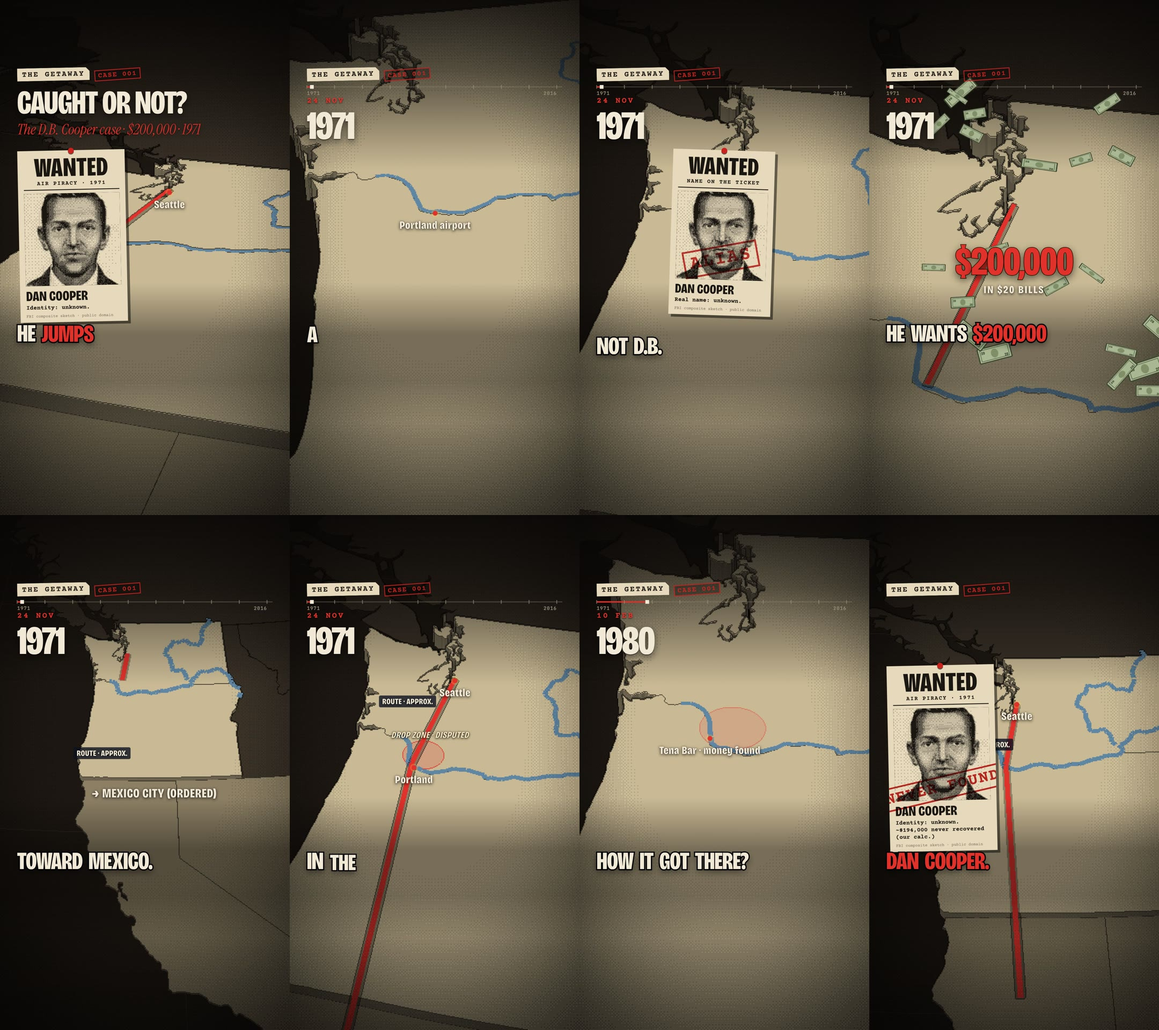
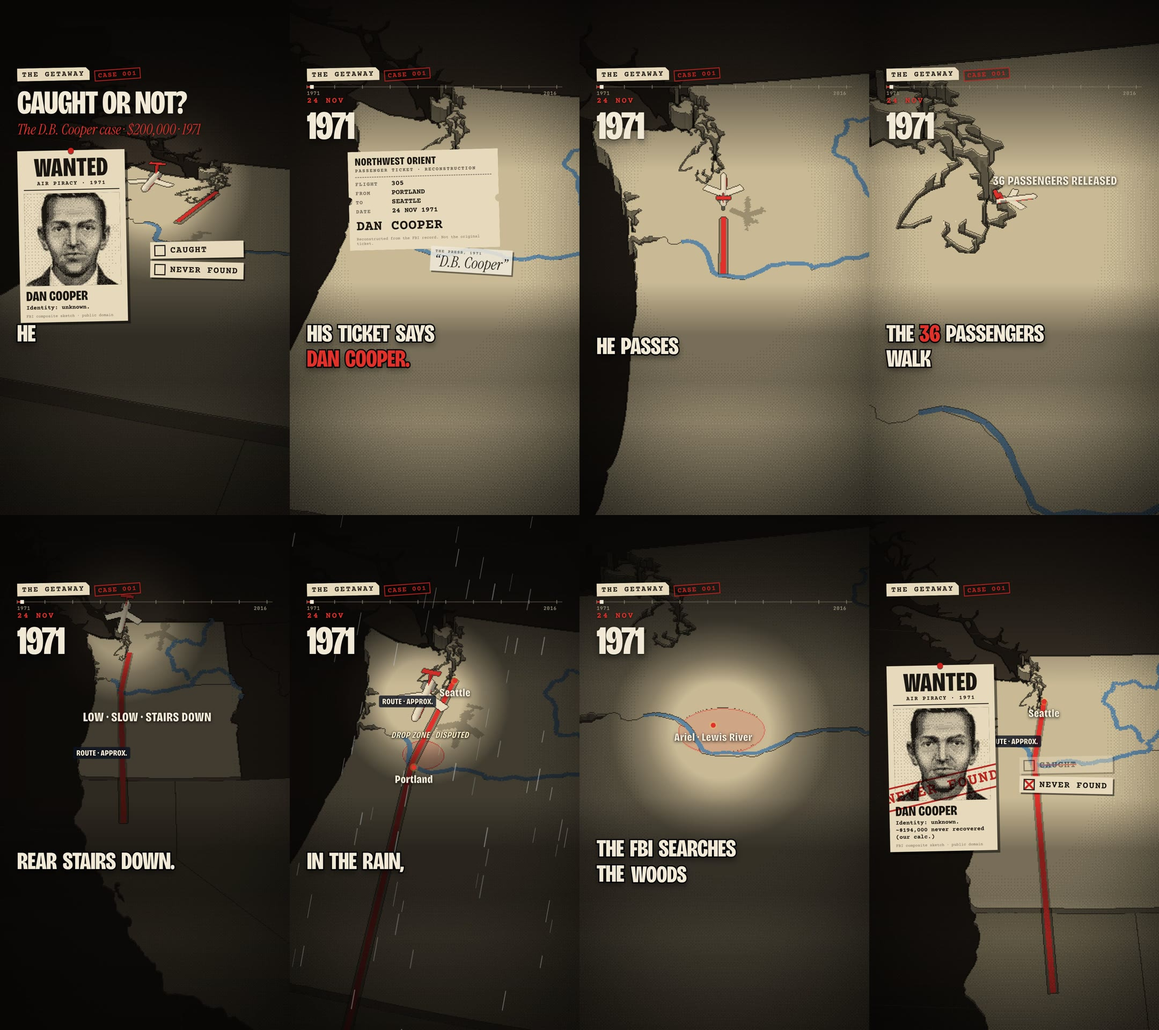
getaway-001 render 4 (creative pass): jet + airstair + vanishing jumper, night/torch/rain, typed ticket, verdict boxes; docs
Claude-Session: https://claude.ai/code/session_01XTztXofJfEXunW3vUDzBqv

diff --git a/docs/REVIEW_getaway-001-dbcooper.md b/docs/REVIEW_getaway-001-dbcooper.md
@@ -236,3 +236,17 @@ Stills at 0 / 6 / 20 / 40 s, before (commit 4908840) and after:
 - [ ] Listen once: "D.B.", "three-oh-five", "Reno", "fifty-eight hundred".
 - [ ] Tick the FBI lines of SOURCES.md against fbi.gov (not reachable from the cloud session): rows 8, 9, 11, 12, 14, 17, 24; row 13 (FBI Vault OCR).
 - [ ] Post on 24 Nov with "55 years ago today"; otherwise edit the first caption line.
+
+## Render 4 — creative pass (owner: "sors du cadre, sois plus créatif")
+Voice and facts unchanged; only the world and the cues. New kit pieces (reusable by every map episode):
+- `vehicle`: a low-poly tri-jet with a T-tail flies the route above the table, banks in turns, casts its shadow on the
+  map, opens its **rear airstair** ("Rear stairs down."), lands in Reno with the stairs still down. On "jumps" a figure
+  under a canopy drops and **fades out in the air** with a "?" — the jump is shown without implying a landing point.
+- `night`: from "south," the map goes dark except a torch pool that follows the jet; rain streaks on "in the rain,";
+  a static searchlight on the search area in the hunt beat; dark again on the last line (loop).
+- `ticket`: the ticket beat types a reconstruction (flight 305, Portland → Seattle, 24 Nov 1971, DAN COOPER — labelled
+  "Reconstructed from the FBI record. Not the original ticket.") and the press cutting "D.B. Cooper" is struck out on "D.B.".
+- `verdict`: CAUGHT / NEVER FOUND tick boxes, empty on frame 0, the red cross lands on NEVER FOUND on "never".
+  First and last frame now differ only by that cross and the stamp: the loop *asks* then *answers*.
+Metrics: −14.1 LUFS · loop SSIM 0.907 · 46 visual cues (was 36) · no gap over 4.5 s (the 6 s gap at the verdict is gone).
+Non-regression: `ussr-1991-v2` 4/4 stills byte-identical after the kit changes; `npm test` green.

diff --git a/docs/getaway/00_CHANNEL_BIBLE.md b/docs/getaway/00_CHANNEL_BIBLE.md
@@ -36,7 +36,8 @@ An episode belongs to the channel through `"channel": "getaway"` in `episode.jso
 | Paper | `#E6D9BC` (wanted posters, the series tab), ink `#1A1612`, stamp ink `#C8231E` |
 | Type | Display (Bricolage condensed) for titles and captions · Whisper (Instrument Serif italic) for the one quiet line · **Courier Prime** (OFL) replaces JetBrains Mono for every data/annotation line |
 | Series bar | A: beige typed tab "THE GETAWAY" + red stamped "CASE 001". (B "evidence label" stays available: render prop `brand: "B"`.) |
-| Signature objects | wanted poster (`wanted` cue: image printed in paper ink, typed lines, credit, stamp); falling banknotes (`bills: true`); the verdict stamp |
+| Signature objects | the 3D getaway vehicle on the map (`vehicle`: a tri-jet with its rear airstair; a falling figure that vanishes in the air), night + torch + rain (`night`), the typed document with a struck-out wrong version (`ticket`), the CAUGHT / NEVER FOUND tick boxes open on frame 0 and ticked on the verdict (`verdict`) |
+| Older signature objects | wanted poster (`wanted` cue: image printed in paper ink, typed lines, credit, stamp); falling banknotes (`bills: true`); the verdict stamp |
 
 Palette and look live in `src/studio/series.ts` (`getaway`), the bar in `src/studio/brands/getaway.tsx`.
 

diff --git a/CLAUDE.md b/CLAUDE.md
@@ -62,6 +62,9 @@ The five rules (details and measurements in `docs/STUDIO.md`):
      `dissolve`, `allLabels`, `units` (tanks/troops/crowd as 3D pieces), `portrait`, `flagSwap`, `shake`, `ghost`,
      `path`, `bigNumber`, `archive`, `callout`, `region`, `sticker`, `chapter` (text only in DA 2), `recolor`,
      `reveal`, `conceal`, `pointer`, `wanted` (wanted poster: `key`, `name`, `headSub`, `lines`, `credit`, `stamp`).
+     `vehicle` (3D jet flying `coords`, `from`/`to`, `alt`, `land`, `stairsWord`, `dropWord` → a figure under a canopy that
+     fades in the air), `night` (darkness + torch on `follow: "vehicle"|[lon,lat]`, `rain`), `ticket` (typed reconstruction,
+     `wrong` + `strikeWord`), `verdict` (tick boxes, `pick` + `pickWord`).
      `bigNumber` takes `bills: true` (banknotes instead of coins). A LineString feature with `properties.river` is
      drawn as a river ribbon (colour `palette.static[id]`). Episode-level: `palette`, `counter`, `legend`, `timeline`.
    - money: `scenes` {id: {type: product|grid|bars|card|people|lines, …}}, beats carry `scene` and `kicker`;
